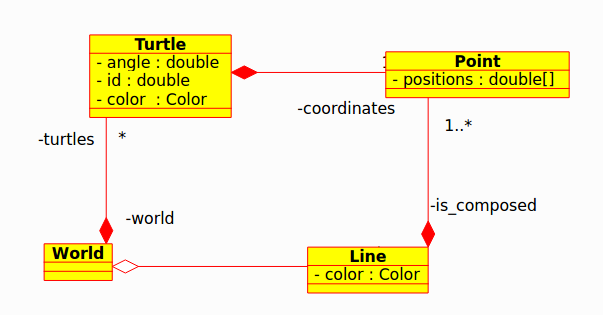
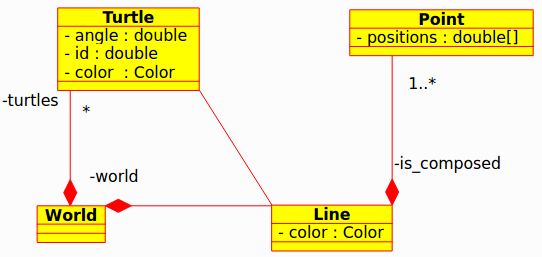
Beamer : changement type et agent

diff --git a/doc/Presentation/modele.tex b/doc/Presentation/modele.tex
@@ -1,42 +1,46 @@
 \subsection{Les classes d'agents}
 \begin{frame}
-\frametitle{Modèle Version 1}
+\frametitle{Modèle - Agents v0.1}
 \centering
 \includegraphics[scale=0.4]{doc/Presentation/image/agent01.png}
 \end{frame}
+
 \begin{frame}
-\frametitle{Modèle Version Final}
+\frametitle{Modèle - Agents v1.0}
 \centering
 \includegraphics[scale=0.31]{doc/Presentation/image/agent03.png}
 \end{frame}
-\note{diagramme=modèle à l'état final.\\
-version 1 : turtle point, line, world. le but étant de pouvoir dessiner une ligne. Le monde stocke les lignes, chaque tortue a une ligne\\
-version 2 : classes agent(regroupe comportement) et breed(nommée ou pas), ajout des fonctions, qui stocke un arbre abstrait, contenant le code de la fonction déjà analysé;
- Ajout des mutexs pour la sureté des accés aux attributs\\
-version 3 : les communications : zones propriétés et tortues send, recv...;
-ajouts des pointeur intelligents pour limité les fuites mémoires sur classes principales\\
- export : méthode dans chaque agent; utilisation de json spirit pour l'écriture du json\\
-ajout user function, qui correspond au fonction crée par l'utilisateur, classe spé de function
-Utilisation de cpp unit pour les tests unitaires : une classe pour chaque test
-}
+
+%\note{diagramme=modèle à l'état final.\\
+%version 1 : turtle point, line, world. le but étant de pouvoir dessiner une ligne. Le monde stocke les lignes, chaque tortue a une ligne\\
+%version 2 : classes agent(regroupe comportement) et breed(nommée ou pas), ajout des fonctions, qui stocke un arbre abstrait, contenant le code de la fonction déjà analysé;
+ %Ajout des mutexs pour la sureté des accés aux attributs\\
+%version 3 : les communications : zones propriétés et tortues send, recv...;
+%ajouts des pointeur intelligents pour limité les fuites mémoires sur classes principales\\
+% export : méthode dans chaque agent; utilisation de json spirit pour l'écriture du json\\
+%ajout user function, qui correspond au fonction crée par l'utilisateur, classe spé de function
+%Utilisation de cpp unit pour les tests unitaires : une classe pour chaque test
+%}
 
 \subsection{Les types}
 \begin{frame}
-\frametitle{Version 1}
+\frametitle{Modèle - Types v0.1}
 \centering
 \includegraphics[scale=0.5]{doc/Presentation/image/type01.png}
 \end{frame}
+
 \begin{frame}
-\frametitle{Version 2}
+\frametitle{Modèle - Types v0.2}
 \centering
 \includegraphics[scale=0.55]{doc/Presentation/image/types02.png}
 \end{frame}
+
 \begin{frame}
-\frametitle{Version 3}
+\frametitle{Modèle - Types v0.3}
 \centering
-\includegraphics[scale=0.55]{doc/Presentation/image/types04.png}
+\includegraphics[scale=0.21]{doc/Presentation/image/types04.png}
 \end{frame}
-\note{1er sprint : color nil et value\\
-2eme : compléxifié avec simple value<Type T> pour les mutexs, généric value qui hérite de value pour spécialisé la méthode getType, value nos paramétrable car sinon ca créee des classes différentes \\
-4eme : table et mutex recursifs
-}
+%\note{1er sprint : color nil et value\\
+%2eme : compléxifié avec simple value<Type T> pour les mutexs, généric value qui hérite de value pour spécialisé la méthode getType, value nos paramétrable car sinon ca créee des classes différentes \\
+%4eme : table et mutex recursifs
+%}
